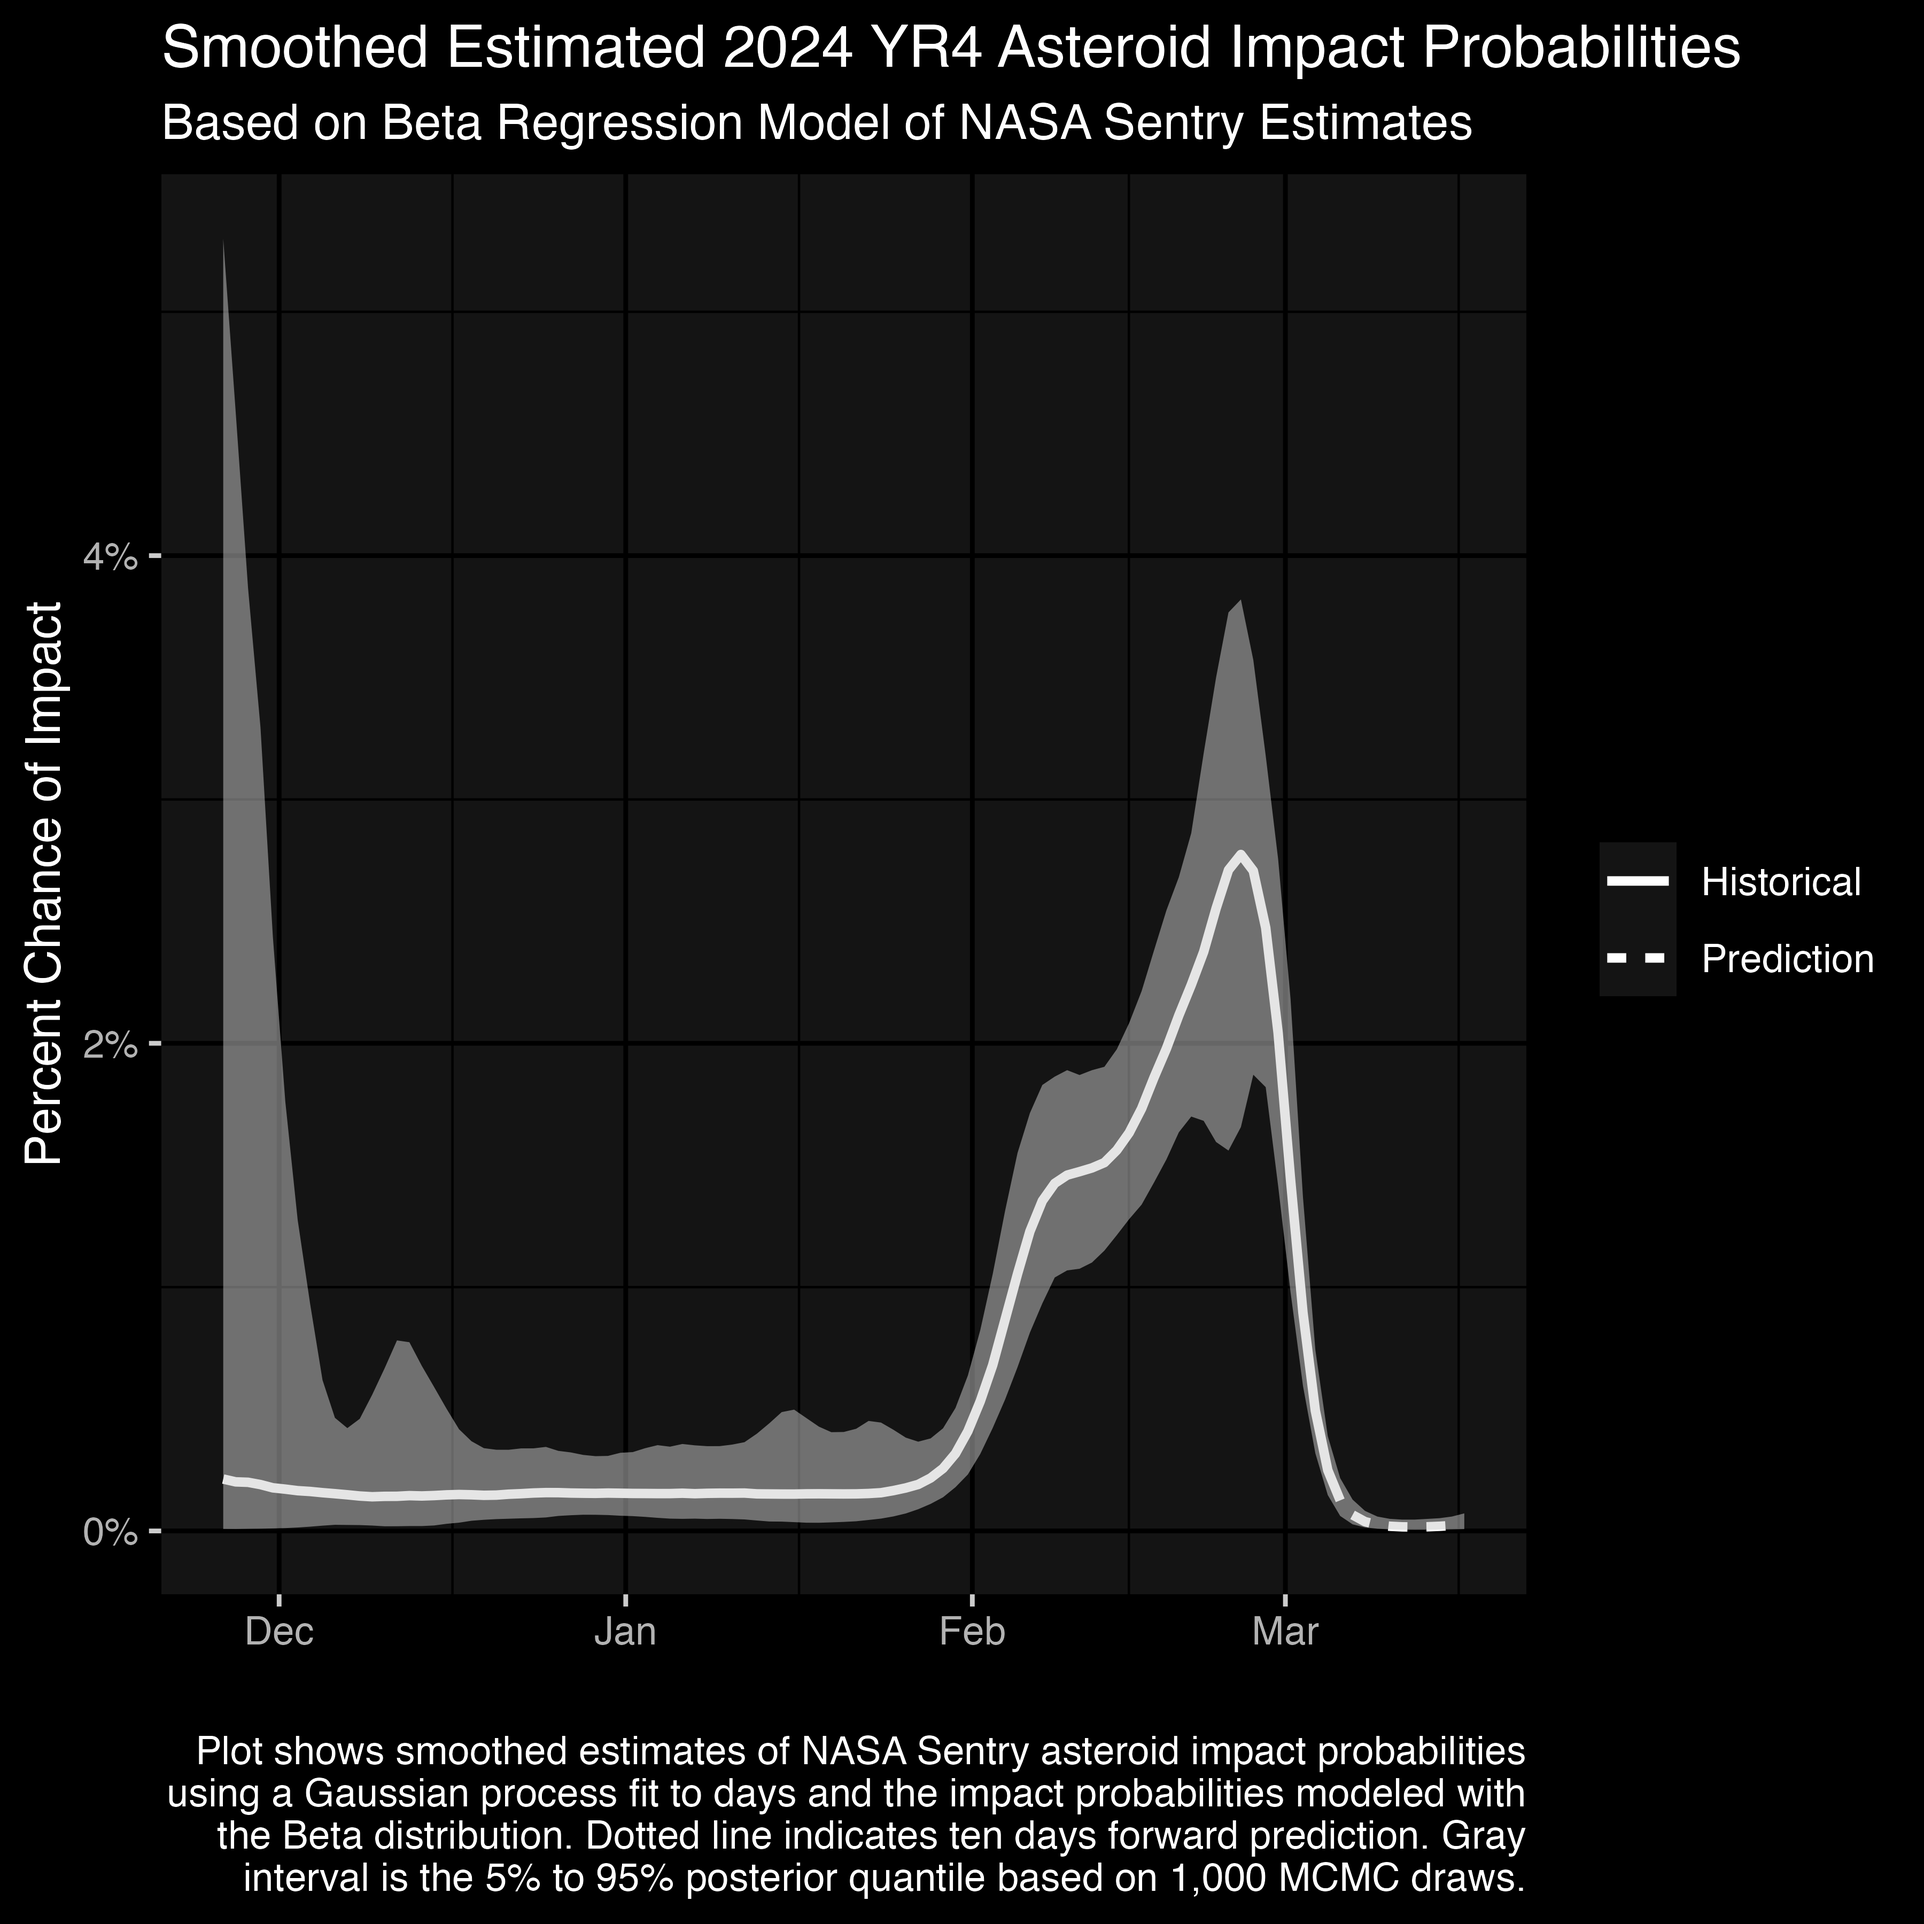
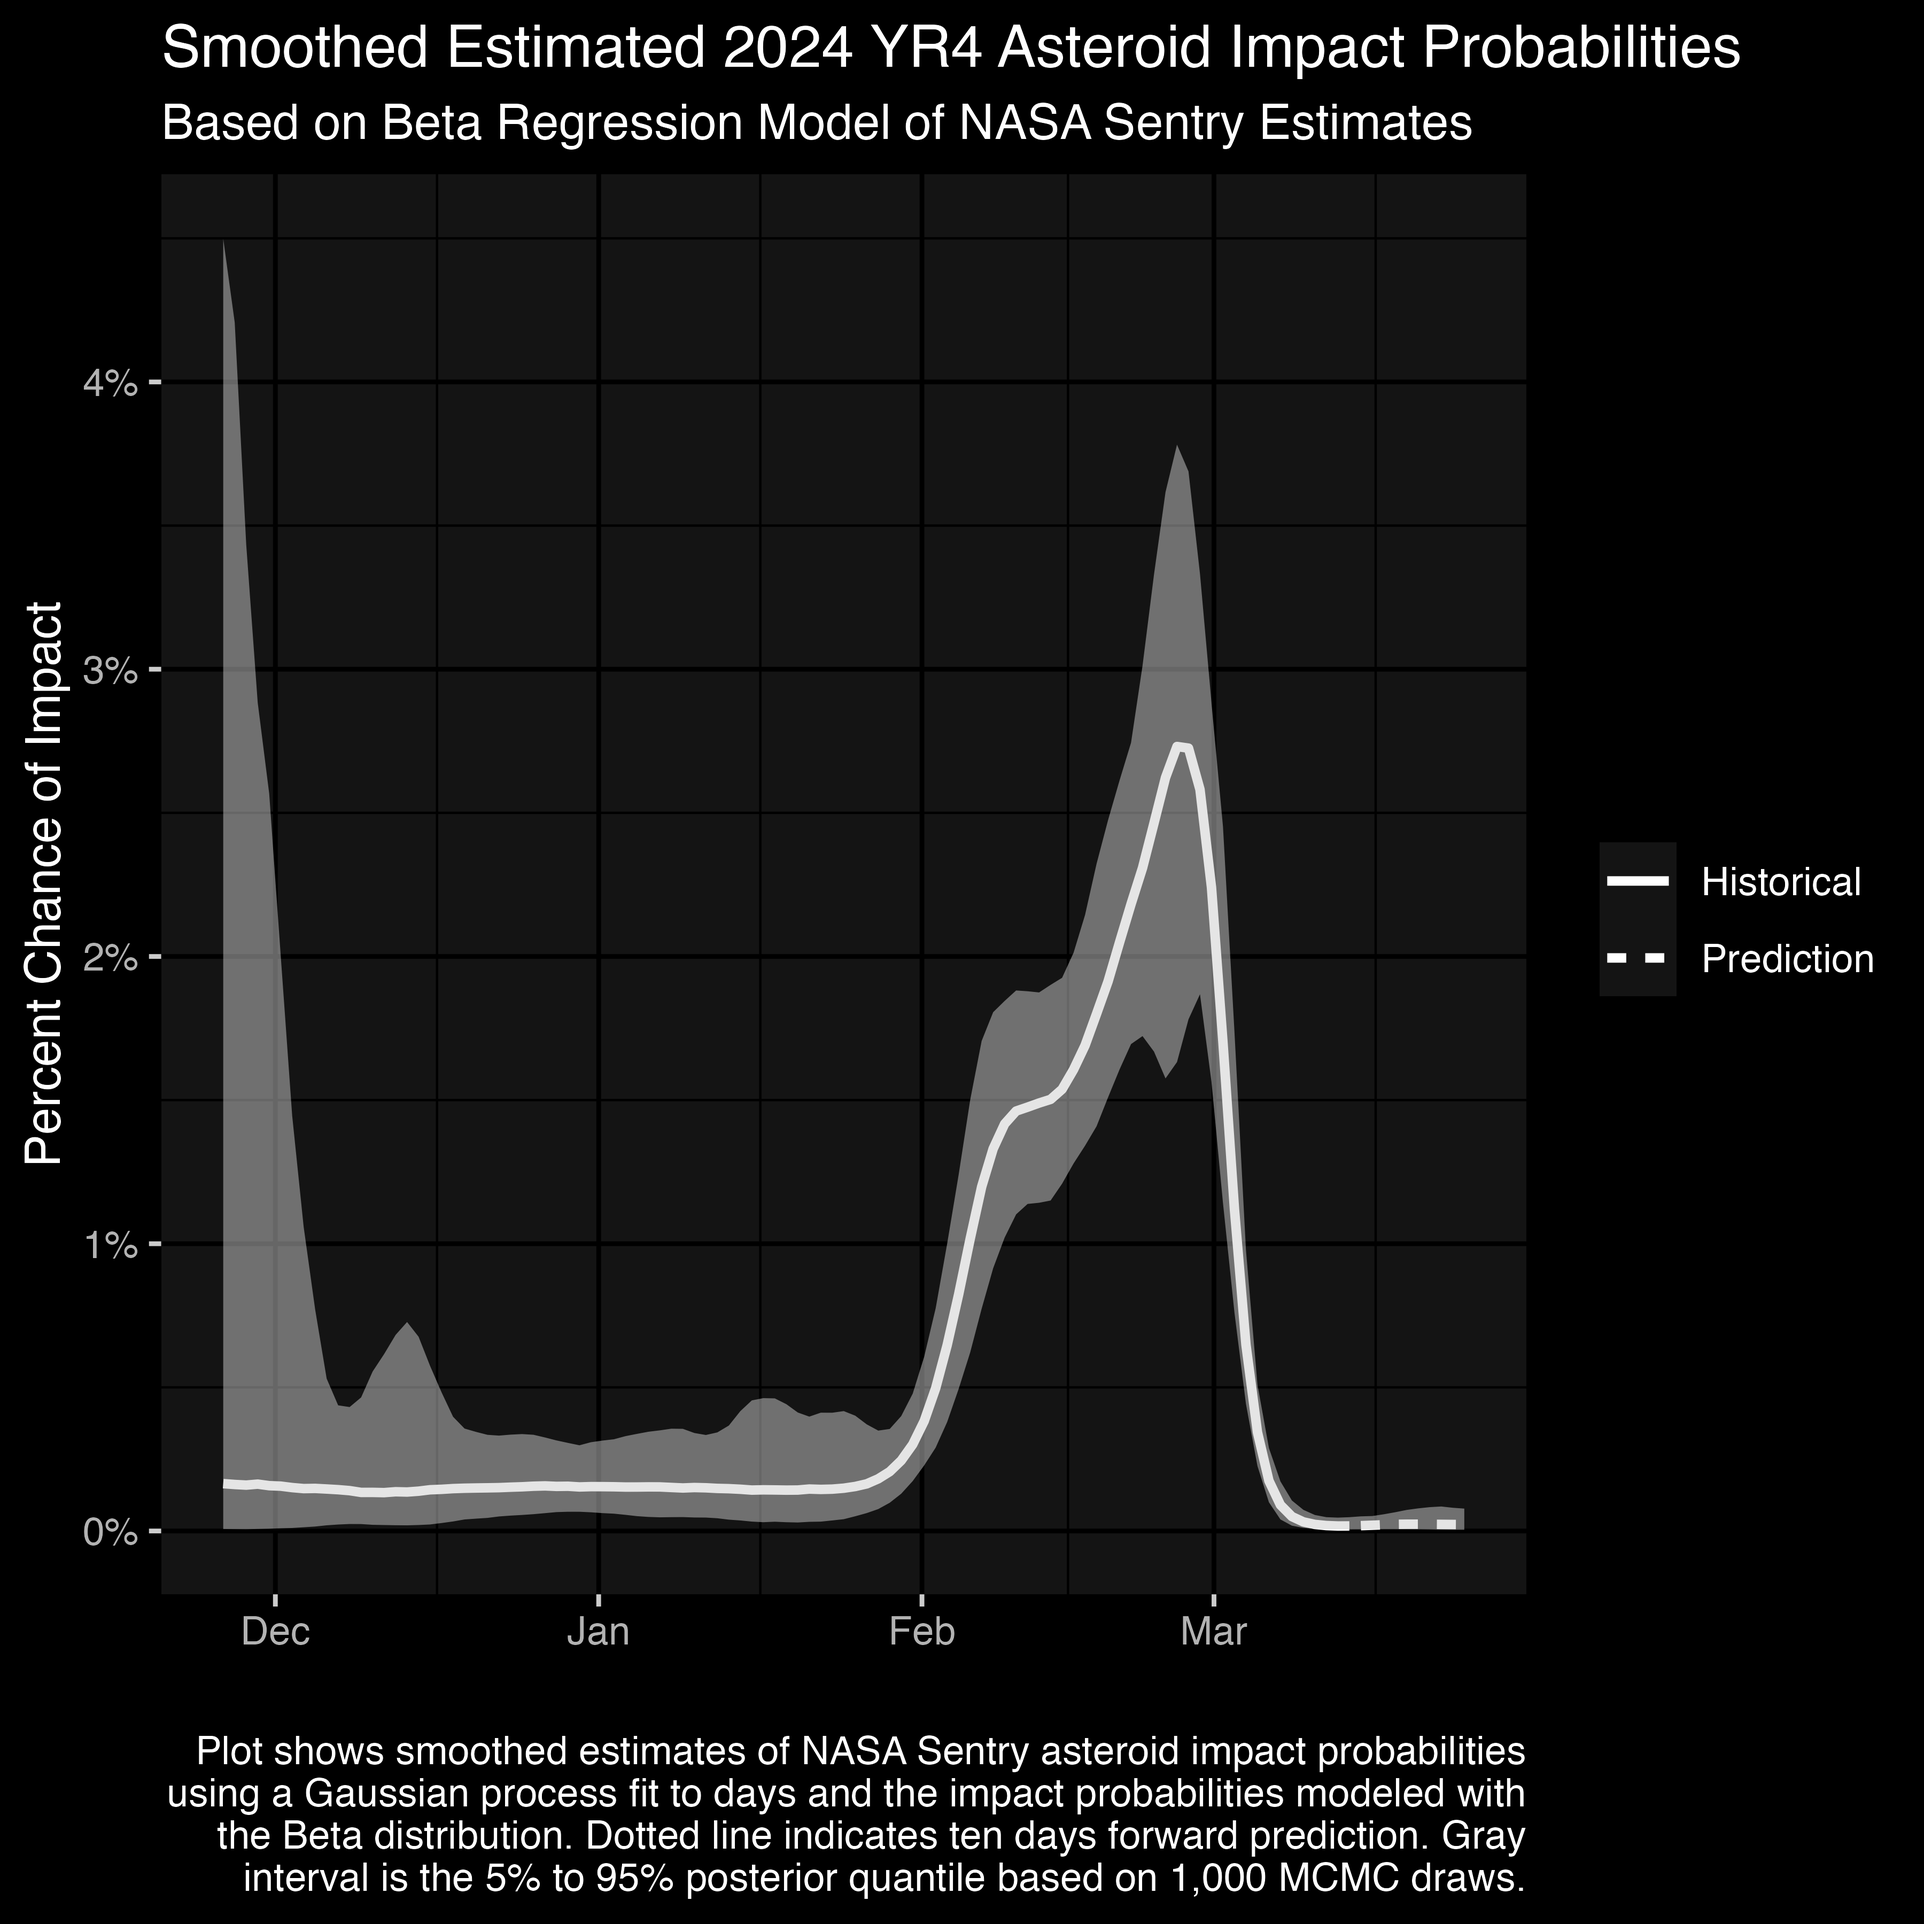
NASA Sentry smoother prediction 2025-03-15

diff --git a/_site/post/nasa_beta/index.html b/_site/post/nasa_beta/index.html
@@ -409,12 +409,12 @@ gtag('config', 'G-BHP1PJ9LEX', { 'anonymize_ip': true});
 <div class="cell-output cell-output-stdout">
 <pre><code>Running MCMC with 2 chains, at most 8 in parallel...
 
-Chain 1 finished in 25.4 seconds.
-Chain 2 finished in 28.0 seconds.
+Chain 1 finished in 57.1 seconds.
+Chain 2 finished in 61.5 seconds.
 
 Both chains finished successfully.
-Mean chain execution time: 26.7 seconds.
-Total execution time: 28.1 seconds.</code></pre>
+Mean chain execution time: 59.3 seconds.
+Total execution time: 61.6 seconds.</code></pre>
 </div>
 <details class="code-fold">
 <summary>Show the code</summary>
@@ -562,7 +562,7 @@ Total execution time: 28.1 seconds.</code></pre>
 </section>
 <section id="current-estimates" class="level2">
 <h2 class="anchored" data-anchor-id="current-estimates">Current Estimates</h2>
-<p>As mentioned above, NASA has released more estimates since February 18th. In this section, I re-fit the model and predict for up to 10 days head using all of their Sentry data going back to November 2024. I will keep updating this section on a daily basis as more data comes in. The estimates below are current as of <strong>Friday, March 07, 2025</strong>.</p>
+<p>As mentioned above, NASA has released more estimates since February 18th. In this section, I re-fit the model and predict for up to 10 days head using all of their Sentry data going back to November 2024. I will keep updating this section on a daily basis as more data comes in. The estimates below are current as of <strong>Saturday, March 15, 2025</strong>.</p>
 <p>This code fits the model to the current data:</p>
 <div class="cell" data-layout-align="center">
 <details class="code-fold">
@@ -602,12 +602,12 @@ Total execution time: 28.1 seconds.</code></pre>
 <div class="cell-output cell-output-stdout">
 <pre><code>Running MCMC with 2 chains, at most 8 in parallel...
 
-Chain 1 finished in 22.7 seconds.
-Chain 2 finished in 25.1 seconds.
+Chain 2 finished in 50.6 seconds.
+Chain 1 finished in 52.1 seconds.
 
 Both chains finished successfully.
-Mean chain execution time: 23.9 seconds.
-Total execution time: 25.2 seconds.</code></pre>
+Mean chain execution time: 51.3 seconds.
+Total execution time: 52.2 seconds.</code></pre>
 </div>
 </div>
 <p>And here are the model predictions with 10 days ahead plus fitted estimates to all previous NASA Sentry predictions:</p>
